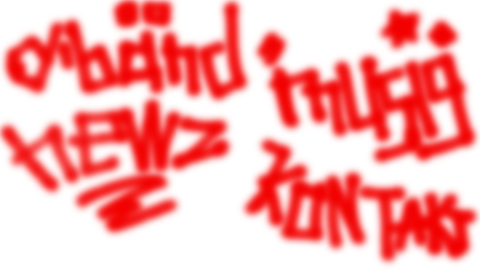
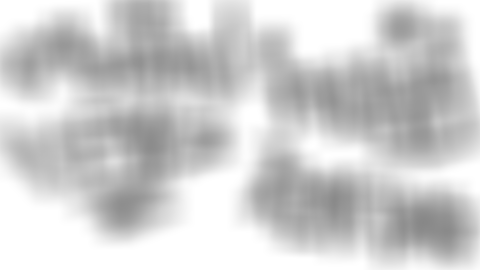
make navigation have a gaussian blur background when hovering, for better discoverability for at least desktop users

diff --git a/_sass/_layout.scss b/_sass/_layout.scss
@@ -54,6 +54,11 @@
     background-repeat: no-repeat;
     background-size: 100% auto;
 
+    &:hover {
+        background-image: url(../img/nav2.png), url(../img/nav2_hover.png);
+        background-repeat: no-repeat, no-repeat;
+        background-size: 100% auto, 100% auto;
+    }
 
     @include media-query($on-laptop) {
         width: 50%;
